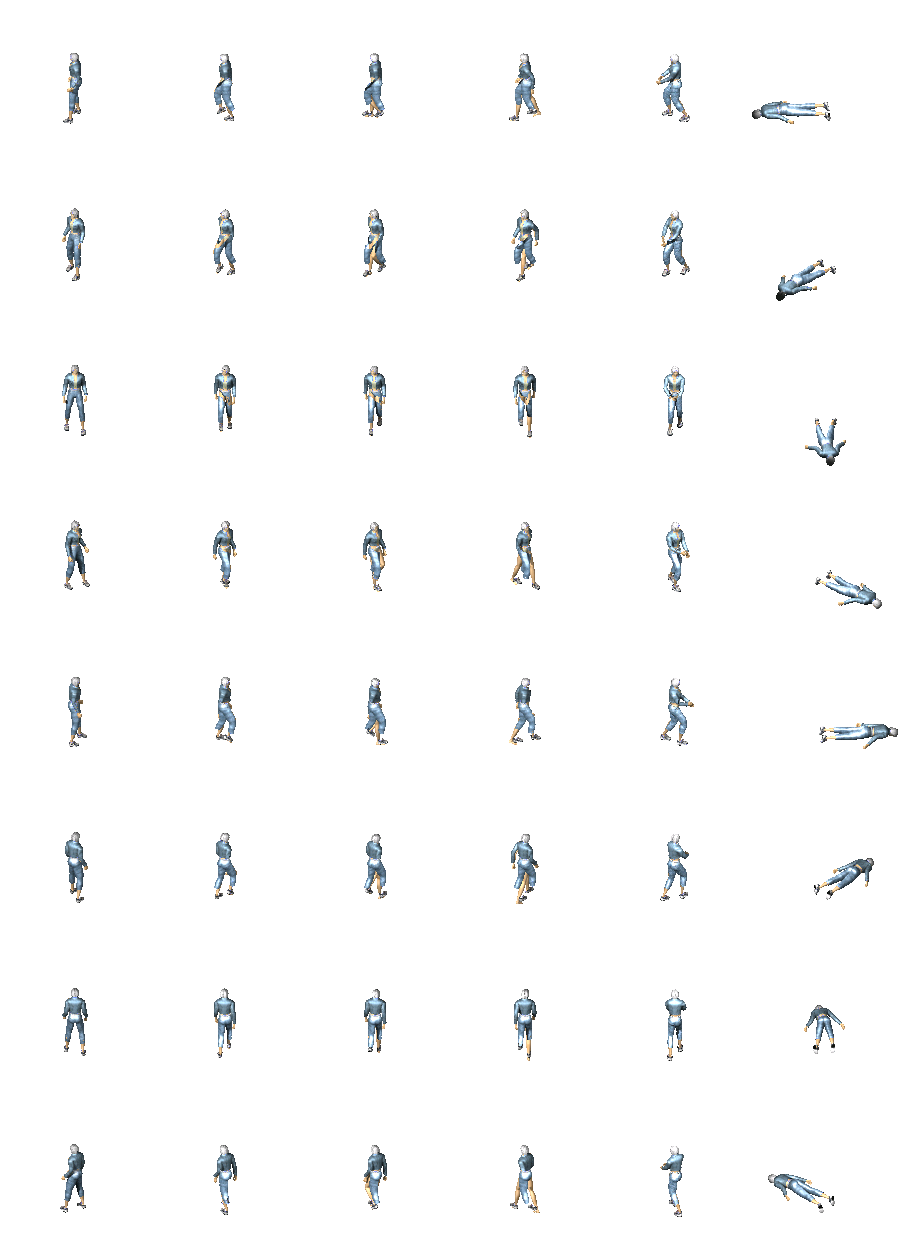
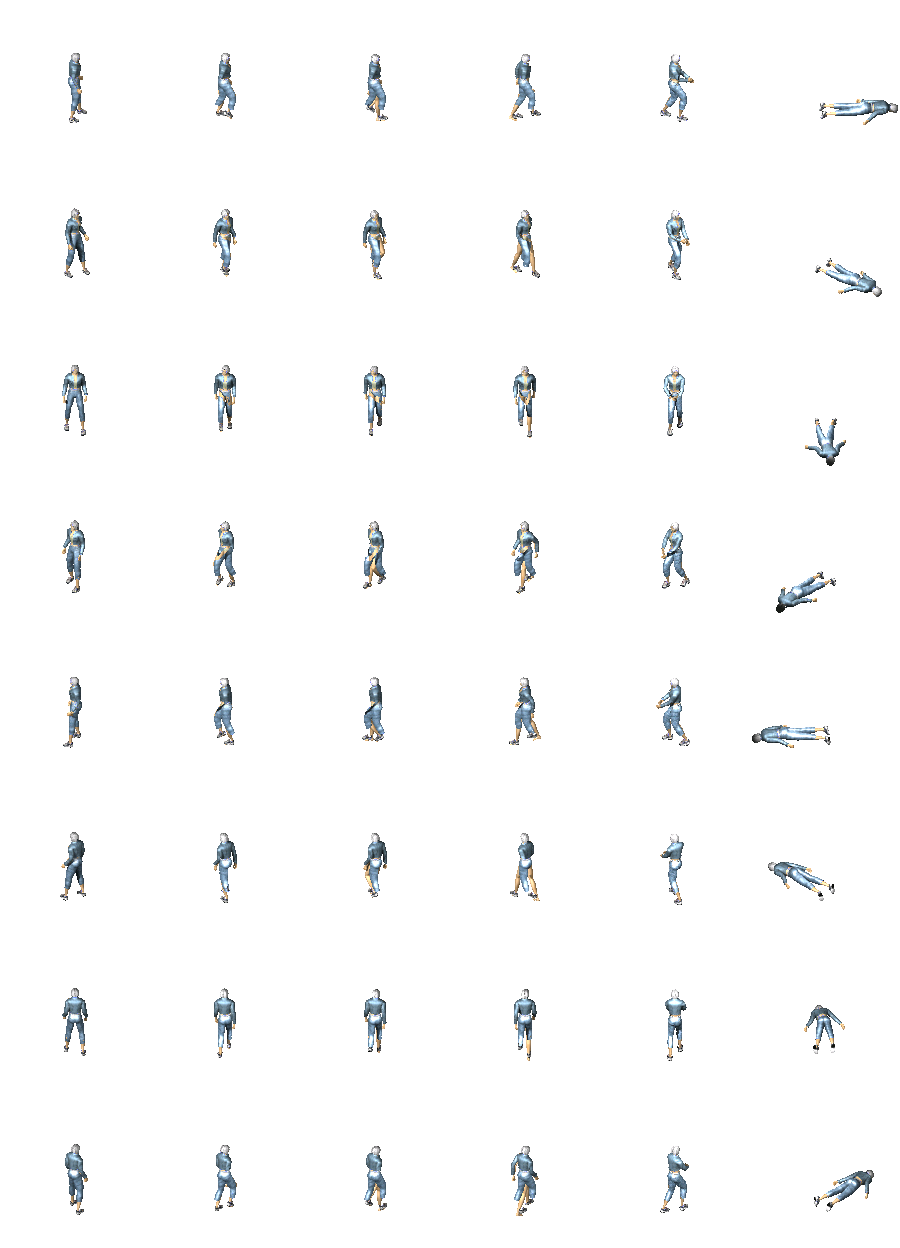
player: fix mirrored E/W sprite rows; loot: won x10, drop chance x4; move speed 150; H/tab/menu return to town; phone: 4/3 larger UI on a screen-matched canvas
- player model 00046 stores direction blocks clockwise, so its E/W and diagonal rows came out mirrored: rows swapped in the three sheets, extractor gets cw=True
- balance.loot.wonMult=10, dropChanceMult=4 (capped at 100%)
- moveSpeedBase 130 -> 150
- 'home' hotkey (H key, touch tab, Esc menu button) travels to the year's hub; refused inside Assault
- gameSize.ts: coarse-pointer devices get a 540-high canvas whose width matches the screen aspect (960..1400); WORLD_ZOOM scaled so the world view is unchanged; windows shrink to fit; minimap top-left / quest tracker top-right on phones; title bg cover-fit

Claude-Session: https://claude.ai/code/session_01TE2JjM5LkbkKvXeaEtJWKL

diff --git a/src/game/scenes/UIScene.ts b/src/game/scenes/UIScene.ts
@@ -133,7 +133,9 @@ export class UIScene extends Phaser.Scene {
     }
 
     // --- minimap (top-right) -----------------------------------------------------------------
-    this.minimapPanel = this.add.container(GAME_WIDTH - MINIMAP_MAX_W - 24, 12).setDepth(40);
+    // phone canvas: the touch action buttons sit where the minimap was, so minimap goes top-left and the quest tracker top-right
+    const phone = GAME_HEIGHT < 720;
+    this.minimapPanel = this.add.container(phone ? 12 : GAME_WIDTH - MINIMAP_MAX_W - 24, 12).setDepth(40);
     const mmBg = this.add.nineslice(0, 0, TEX.ui_panel, 0, MINIMAP_MAX_W + 12, MINIMAP_MAX_H + 30, 8, 8, 8, 8).setOrigin(0, 0);
     const mmTitle = this.add.text(6, 5, '지도 (Tab)', theme.textStyle(11, theme.colors.brass));
     this.minimapDots = this.add.graphics();
@@ -141,7 +143,7 @@ export class UIScene extends Phaser.Scene {
     this.minimapPanel.setVisible(gameState.settings.showMinimap);
 
     // quest tracker under the minimap
-    this.questTracker = this.add.text(GAME_WIDTH - 16, 12 + MINIMAP_MAX_H + 40, '', theme.textStyle(12, '#ffd166', { stroke: '#000', strokeThickness: 3, align: 'right' })).setOrigin(1, 0).setDepth(40);
+    this.questTracker = this.add.text(GAME_WIDTH - 16, phone ? 12 : 12 + MINIMAP_MAX_H + 40, '', theme.textStyle(12, '#ffd166', { stroke: '#000', strokeThickness: 3, align: 'right' })).setOrigin(1, 0).setDepth(40);
     this.permitText = this.add.text(GAME_WIDTH - 14, GAME_HEIGHT - 14, '', theme.textStyle(9, '#6b7280')).setOrigin(1, 1);
     // active 사이버샵 buffs, bottom-right above the HUD, refreshed every second
     this.buffText = this.add.text(GAME_WIDTH - 16, GAME_HEIGHT - HUD_BAR_H - 8, '', theme.textStyle(11, theme.colors.good, { stroke: '#000', strokeThickness: 3, align: 'right' })).setOrigin(1, 1).setDepth(40);

diff --git a/src/game/ui/Window.ts b/src/game/ui/Window.ts
@@ -1,4 +1,5 @@
 import Phaser from 'phaser';
+import { GAME_HEIGHT } from '../../config/gameConfig';
 import { TEX } from '@data/textureKeys';
 import { registry } from '@data/registry';
 import type { ItemStack } from '@data/schema/item';
@@ -38,6 +39,10 @@ export abstract class Window extends Phaser.GameObjects.Container {
     this.content = scene.add.container(0, 40);
     this.add([panel, body, inner, titleBand, emblem, emblemDot, this.titleText, closeBtn, closeX, rule, this.content]);
     this.setDepth(100);
+    // phone canvas is shorter than the tallest windows: shrink to fit and pull up so the whole window stays on screen
+    const fit = Math.min(1, GAME_HEIGHT / h);
+    this.setScale(fit);
+    if (y + h * fit > GAME_HEIGHT) this.y = Math.max(0, GAME_HEIGHT - h * fit);
     scene.add.existing(this);
   }
 
@@ -47,7 +52,7 @@ export abstract class Window extends Phaser.GameObjects.Container {
 
   /** Screen-space hit test used to block world input under the window. */
   contains(sx: number, sy: number): boolean {
-    return this.visible && sx >= this.x && sx < this.x + this.w && sy >= this.y && sy < this.y + this.h;
+    return this.visible && sx >= this.x && sx < this.x + this.w * this.scaleX && sy >= this.y && sy < this.y + this.h * this.scaleY;
   }
 
   /** Rebuild contents from current state. */

diff --git a/src/game/ui/WindowManager.ts b/src/game/ui/WindowManager.ts
@@ -4,6 +4,7 @@ import type { NpcDef } from '@data/schema/npc';
 import { gameState, type AssaultResult } from '../state/GameState';
 import { balance } from '@data/balance';
 import { canRebirth } from '@core/stats/rebirth';
+import { hubForYear } from '@core/world/parallel';
 import { statCap } from '@core/stats/levelCurve';
 import { actions } from '../state/actions';
 import { ResultWindow } from './ResultWindow';
@@ -181,6 +182,14 @@ export class WindowManager {
         return gameState.setSettings({ showMinimap: !gameState.settings.showMinimap });
       case 'menu':
         if (!this.closeTop()) this.open('menu');
+        return;
+      case 'home': // back to the current year's town (free; H key, touch tab, Esc menu)
+        if (this.windows.get('menu')!.scene.scene.isActive('Assault')) {
+          gameState.events.emit('message', { text: '어설트 중에는 귀환할 수 없습니다', tone: 'bad' });
+          return;
+        }
+        gameState.events.emit('message', { text: '마을로 귀환합니다', tone: 'system' });
+        gameState.events.emit('travel', { mapId: hubForYear(registry.map(gameState.currentMapId).year), spawn: balance.death.respawnPoint });
         return;
     }
     const quick = /^quick([1-9])$/.exec(key);

diff --git a/tests/core/ai.test.ts b/tests/core/ai.test.ts
@@ -5,6 +5,7 @@ import { pickSpawnTile, pickWeighted, zoneOnDeath, zoneTick, initialZoneRuntime 
 import { rollLoot } from '@core/world/loot';
 import { enemyHitChance, playerDamageTaken } from '@core/combat/enemyAttack';
 import { registry } from '@data/registry';
+import { balance } from '@data/balance';
 
 const rng = createRng(7);
 const home = { x: 500, y: 500 };
@@ -153,8 +154,8 @@ describe('loot + enemy attack maths', () => {
   it('rolls won within range and only known items', () => {
     const def = registry.monster('zombie_lord');
     const l = rollLoot(def, createRng(1));
-    expect(l.won).toBeGreaterThanOrEqual(def.wonMin);
-    expect(l.won).toBeLessThanOrEqual(def.wonMax);
+    expect(l.won).toBeGreaterThanOrEqual(def.wonMin * balance.loot.wonMult);
+    expect(l.won).toBeLessThanOrEqual(def.wonMax * balance.loot.wonMult);
     expect(l.items.some((i) => i.itemId === 'ammo_9mm_incendiary')).toBe(true); // chance 1
     for (const it of l.items) expect(() => registry.item(it.itemId)).not.toThrow();
   });

diff --git a/src/game/ui/TouchControls.ts b/src/game/ui/TouchControls.ts
@@ -73,8 +73,8 @@ export class TouchControls extends Phaser.GameObjects.Container {
     this.action(ax + 40, ay - 130, '서브\n연사', () => (touchState.pending.subFire = true));
 
     // --- top strip: windows --------------------------------------------------------------------
-    const tabs: [string, Hotkey | 'fullscreen'][] = [['인벤', 'inventory'], ['상태', 'status'], ['스킬', 'skills'], ['퀘스트', 'quest'], ['지도', 'minimap'], ['메뉴', 'menu'], ['⛶', 'fullscreen']];
-    let tx = GAME_WIDTH / 2 - (tabs.length * 68) / 2;
+    const tabs: [string, Hotkey | 'fullscreen'][] = [['인벤', 'inventory'], ['상태', 'status'], ['스킬', 'skills'], ['퀘스트', 'quest'], ['지도', 'minimap'], ['귀환', 'home'], ['메뉴', 'menu'], ['⛶', 'fullscreen']];
+    let tx = GAME_HEIGHT < 720 ? 240 : GAME_WIDTH / 2 - (tabs.length * 68) / 2; // phone: right of the top-left minimap
     for (const [label, hk] of tabs) {
       this.tab(tx, 8, 64, 30, label, () => {
         if (hk === 'fullscreen') {

diff --git a/src/game/systems/input/InputMapper.ts b/src/game/systems/input/InputMapper.ts
@@ -4,7 +4,7 @@ import type { ControlScheme } from '@data/schema/enums';
 import { gameState } from '../../state/GameState';
 import { takePending, touchState } from './touchState';
 
-export type Hotkey = 'inventory' | 'status' | 'skills' | 'quest' | 'minimap' | 'menu' | `quick${number}`;
+export type Hotkey = 'inventory' | 'status' | 'skills' | 'quest' | 'minimap' | 'menu' | 'home' | `quick${number}`;
 
 export interface InputIntent {
   /** classic: world position of the latest LMB press (null when none this frame) */
@@ -174,6 +174,8 @@ export class InputMapper {
         return 'minimap';
       case 'Escape':
         return 'menu';
+      case 'KeyH':
+        return 'home';
       case 'KeyC':
         return this.scheme === 'classic' ? 'status' : null;
       case 'KeyV':

diff --git a/src/game/scenes/TitleScene.ts b/src/game/scenes/TitleScene.ts
@@ -35,7 +35,8 @@ export class TitleScene extends Phaser.Scene {
     this.busy = false;
     audio.ambient('rain');
     audio.bgm('title');
-    this.add.image(0, 0, TEX.title_bg).setOrigin(0, 0).setDisplaySize(GAME_WIDTH, GAME_HEIGHT); // real art may be a smaller file
+    const bg = this.add.image(GAME_WIDTH / 2, GAME_HEIGHT / 2, TEX.title_bg); // real art may be a smaller file; cover the canvas (phones are wider than 16:9)
+    bg.setScale(Math.max(GAME_WIDTH / bg.width, GAME_HEIGHT / bg.height));
     // darken the painted street so the logo, slot panel and footer stay readable on top of it
     this.add.rectangle(0, 0, GAME_WIDTH, GAME_HEIGHT, 0x05070a, 0.42).setOrigin(0, 0);
     this.add.rectangle(0, GAME_HEIGHT - 120, GAME_WIDTH, 120, 0x05070a, 0.55).setOrigin(0, 0);

diff --git a/src/core/world/loot.ts b/src/core/world/loot.ts
@@ -27,10 +27,10 @@ export function rollPrefix(rng: Rng): ArmorPrefix | undefined {
 
 /** Rolls ₩ and item drops for a kill. Each drop entry is an independent chance; armour may gain a 접두. */
 export function rollLoot(def: MonsterDef, rng: Rng, lookup?: (id: string) => ItemDef): Loot {
-  const won = rng.int(def.wonMin, def.wonMax);
+  const won = rng.int(def.wonMin, def.wonMax) * balance.loot.wonMult;
   const items: LootItem[] = [];
   for (const d of def.drops) {
-    if (!rng.chance(d.chance)) continue;
+    if (!rng.chance(Math.min(1, d.chance * balance.loot.dropChanceMult))) continue;
     const item: LootItem = { itemId: d.itemId, qty: rng.int(d.qtyMin, d.qtyMax) };
     if (lookup && lookup(d.itemId).kind === 'armor') {
       const prefix = rollPrefix(rng);

diff --git a/src/game/ui/MenuWindow.ts b/src/game/ui/MenuWindow.ts
@@ -42,6 +42,11 @@ export class MenuWindow extends Window {
     this.button(20, y, `FPS 표시: ${s.showFps ? '켬' : '끔'}`, () => gameState.setSettings({ showFps: !s.showFps }), theme.colors.brass, 13);
     this.button(130, y, '⛶ 전체화면 켜기/끄기', () => this.scene.scale.toggleFullscreen(), theme.colors.brass, 13);
     y += 34;
+    this.button(20, y, '🏠 마을로 귀환 (H)', () => {
+      this.emit('close');
+      gameState.events.emit('hotkey', 'home');
+    }, theme.colors.good, 13);
+    y += 34;
     // sound
     const vol = Math.round(s.soundVolume * 100);
     this.button(20, y, `효과음: ${s.sfxOn ? '켬' : '끔'}`, () => gameState.setSettings({ sfxOn: !s.sfxOn }), s.sfxOn ? theme.colors.good : theme.colors.muted, 13);

diff --git a/src/game/scenes/BaseWorldScene.ts b/src/game/scenes/BaseWorldScene.ts
@@ -27,10 +27,10 @@ import { rollBreak } from '@core/inventory/death';
 import { hasBuff } from '@core/combat/buffs';
 import { gameRng } from '@core/rng';
 import { Rain } from '../ui/Rain';
-import { GAME_HEIGHT, GAME_WIDTH } from '../../config/gameConfig';
+import { GAME_HEIGHT, GAME_WIDTH } from '../../config/gameSize'; // not gameConfig: WORLD_ZOOM reads it at load time and gameConfig imports this scene
 
 /** World camera zoom: 32px tiles render at 48px, so characters read like the original's ~50px sprites. */
-export const WORLD_ZOOM = 1.5;
+export const WORLD_ZOOM = 1.5 * (GAME_HEIGHT / 720); // phones: keep the same world view on the smaller canvas
 
 export interface WorldSceneData {
   mapId?: string;

diff --git a/src/data/balance.ts b/src/data/balance.ts
@@ -23,7 +23,7 @@ export const balance = {
     apBase: 50,
     apPerInt: 4,
     intPerTechGrade: 10,
-    moveSpeedBase: 130,
+    moveSpeedBase: 150,
     moveSpeedPerSpd: 0.6,
     runMult: 1.6,
     crouchMult: 0.5,
@@ -132,6 +132,9 @@ export const balance = {
     regenDelayMs: 3000,
   },
   loot: {
+    /** multipliers over each monster's own ₩ range and drop chances (2026-09-17: drops felt too stingy on phones) */
+    wonMult: 10,
+    dropChanceMult: 4,
     /** chance an armor drop rolls a 접두 (checked in order: 전설 first) */
     prefixChance: { 전설: 0.03, 고대: 0.1 } as Record<'고대' | '전설', number>,
   },

diff --git a/src/game/scenes/CharacterCreateScene.ts b/src/game/scenes/CharacterCreateScene.ts
@@ -52,7 +52,8 @@ export class CharacterCreateScene extends Phaser.Scene {
     this.race = 'human';
     this.raceButtons.clear();
     this.cameras.main.setBackgroundColor('#05070a');
-    this.add.image(0, 0, TEX.title_bg).setOrigin(0, 0).setDisplaySize(GAME_WIDTH, GAME_HEIGHT).setAlpha(0.55);
+    const bg = this.add.image(GAME_WIDTH / 2, GAME_HEIGHT / 2, TEX.title_bg).setAlpha(0.55);
+    bg.setScale(Math.max(GAME_WIDTH / bg.width, GAME_HEIGHT / bg.height));
 
     const cx = GAME_WIDTH / 2;
     this.add.nineslice(cx, 40, TEX.ui_panel, 0, 640, GAME_HEIGHT - 80, 8, 8, 8, 8).setOrigin(0.5, 0).setAlpha(0.94);
